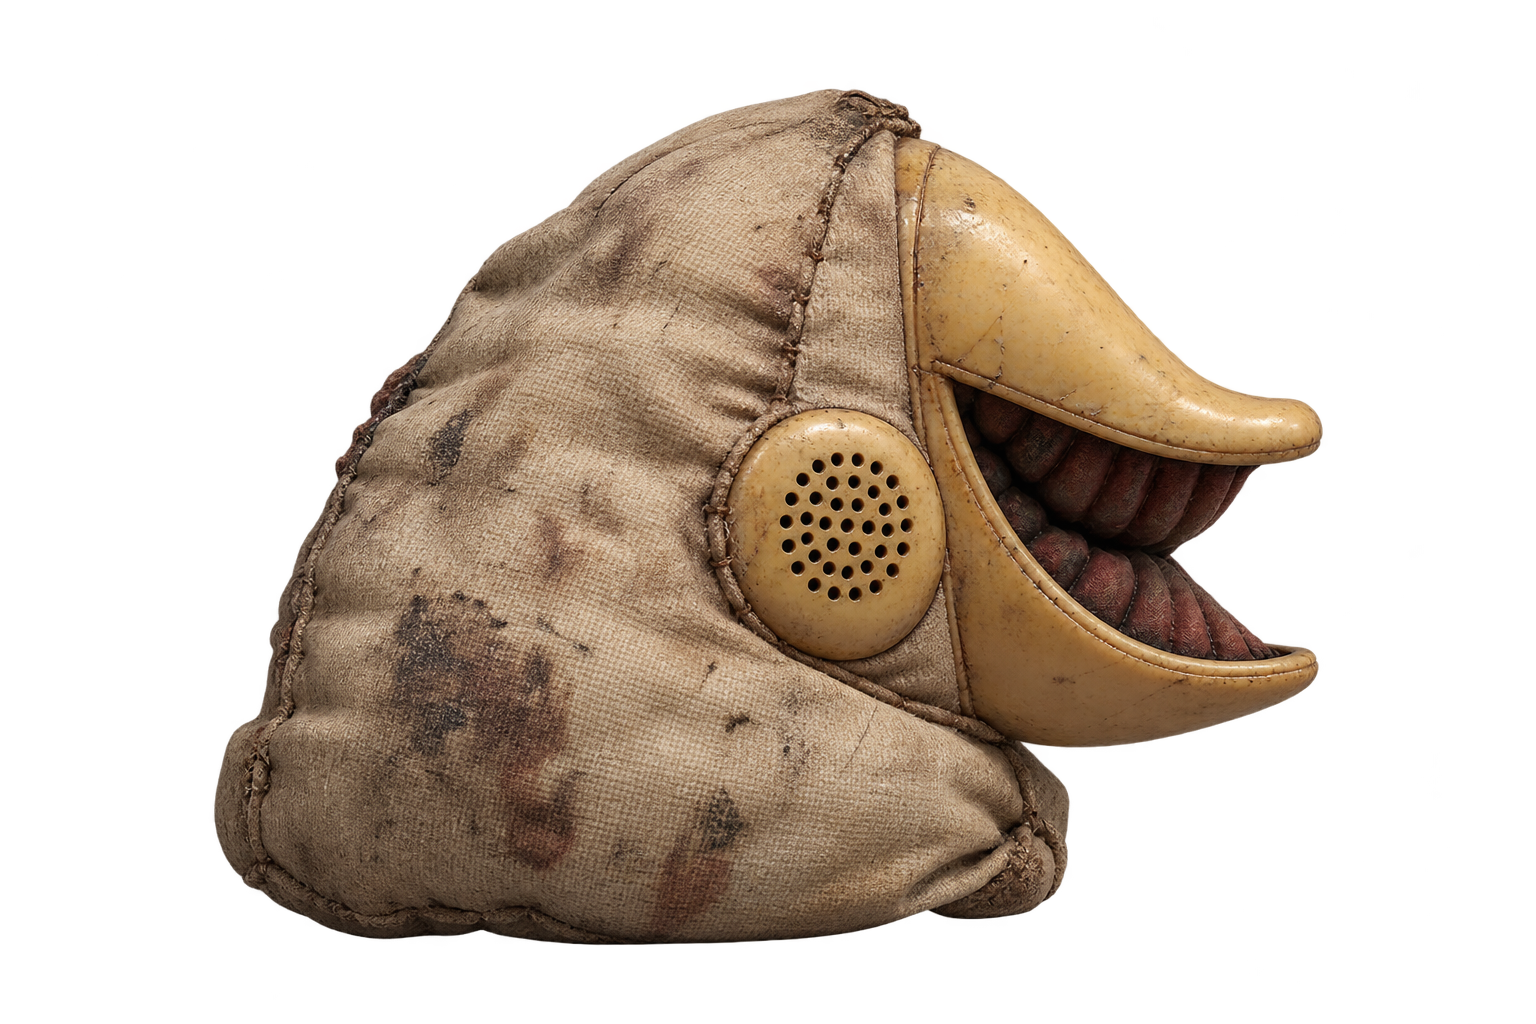
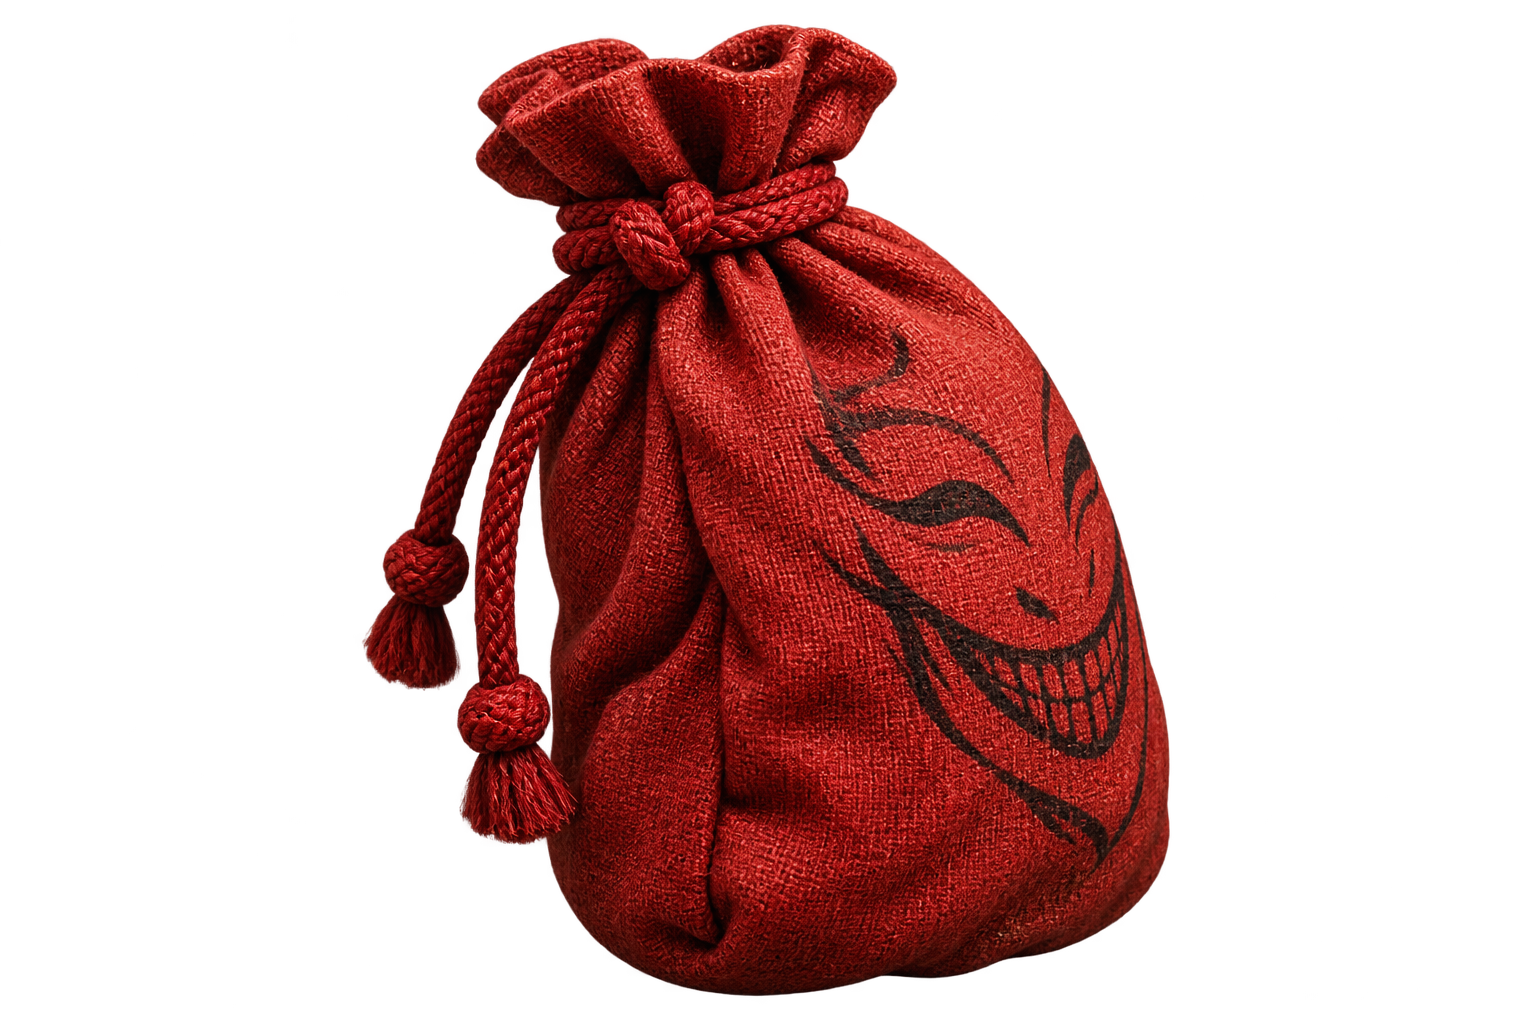
敵素材: 笑い袋を赤い巾着袋＋布面の笑い顔に差し替え、サイズ区分表に第2バッチ分を追加

diff --git a/docs/monsters.md b/docs/monsters.md
@@ -87,7 +87,7 @@
 | M115 | ホラーDVD | 恐怖メディア | 未定 | 未定 | 未定 | 未定 | 仕様のみ（実在作品名・ロゴは使わない） | #12 |
 | M116 | 怪奇本 | 恐怖メディア | 未定 | 未定 | 未定 | 未定 | 仕様のみ | #12 |
 | M117 | 怪人・ひとさらい風の絵本キャラ | 恐怖メディア | 未定 | 未定 | 未定 | 未定 | 仕様のみ | #12 |
-| M118 | 笑い袋 | 恐怖メディア | 未定 | 未定 | 未定 | 未定 | 生成済み: `assets/enemies/laughing-bag.png`（採否待ち。右向き・透過） | #12 |
+| M118 | 笑い袋 | 恐怖メディア | 未定 | 未定 | 未定 | 未定 | 生成済み: `assets/enemies/laughing-bag.png`（採否待ち。赤い巾着袋・布面に笑った顔の絵・右向き三面・透過。旧版（唇の口）は却下（kako-jun 2026-10-15）） | #12 |
 | M119 | 指名手配風ポスター | 恐怖メディア | 未定 | 未定 | 未定 | 未定 | 仕様のみ（架空の図像。実在人物・氏名・事件は使わない） | #12 |
 | M120 | 誘拐を思わせる標識 | 恐怖メディア | 未定 | 未定 | 未定 | 未定 | 仕様のみ（同上） | #12 |
 | M121 | 分厚い百科事典・難解な勉強の本 | 知識の恐怖 | 未定 | 未定 | 未定 | 未定（ページがめくれるたびに難問・重みが増す） | 生成済み: `assets/enemies/encyclopedia.png`（採否待ち。背表紙を左・頁側を右・透過・文字なし） | #12 |
@@ -175,9 +175,13 @@
 | M101 | 1x1（普通） | `assets/enemies/roadroller.png` 640x393、縦横比 1.63 |
 | M102 | 2x1（横2倍） | `assets/enemies/drill.png` 640x271、縦横比 2.36 |
 | M103 | 2x1（横2倍） | `assets/enemies/gun.png` 640x197、縦横比 3.25 |
+| M104 | 1x1（普通） | `assets/enemies/reckless-bicycle.png` 640x418、縦横比 1.53 |
+| M106 | 2x1（横2倍） | `assets/enemies/loud-motorbike.png` 640x336、縦横比 1.90 |
 | M108 | 1x1（普通） | `assets/enemies/open-manhole.png` 640x377、縦横比 1.70 |
 | M109 | 1x1（普通） | `assets/enemies/night-branches.png` 640x468、縦横比 1.37 |
 | M110 | 1x2（縦2倍） | `assets/enemies/wall-stain.png` 323x640、縦横比 0.50 |
+| M118 | 1x1（普通） | `assets/enemies/laughing-bag.png` 532x640、縦横比 0.83 |
+| M121 | 1x1（普通） | `assets/enemies/encyclopedia.png` 465x640、縦横比 0.73 |
 | M122 | 1x2（縦2倍） | `assets/enemies/anatomical-model.png` 296x640、縦横比 0.46 |
 | M123 | 1x1（普通） | `assets/enemies/formalin-jar.png` 434x640、縦横比 0.68 |
 | M124 | 1x2（縦2倍） | `assets/enemies/skeleton-model.png` 234x640、縦横比 0.37 |
@@ -185,12 +189,16 @@
 | M126 | 2x1（横2倍） | `assets/enemies/dental-drill.png` 640x352、縦横比 1.82 |
 | M131 | 1x1（普通） | `assets/enemies/hornet.png` 640x636、縦横比 1.01 |
 | M132 | 1x1（普通） | `assets/enemies/pathogen.png` 640x462、縦横比 1.39 |
+| M133 | 1x1（普通） | `assets/enemies/poison-mushroom.png` 640x466、縦横比 1.37 |
 | M134 | 1x1（普通） | `assets/enemies/nail.png` 640x414、縦横比 1.55 |
 | M135 | 1x1（普通） | `assets/enemies/broken-glass.png` 640x421、縦横比 1.52 |
+| M136 | 1x1（普通） | `assets/enemies/wire-mesh.png` 640x458、縦横比 1.40 |
+| M137 | 1x1（普通） | `assets/enemies/barbed-wire.png` 640x359、縦横比 1.78 |
 | M138 | 1x1（普通） | `assets/enemies/icicle.png` 640x432、縦横比 1.48 |
 | M139 | 1x1（普通） | `assets/enemies/sea-urchin.png` 640x449、縦横比 1.43 |
 | M142 | 1x1（普通） | `assets/enemies/chandelier.png` 640x546、縦横比 1.17 |
 | M143 | 1x1（普通） | `assets/enemies/broken-window.png` 470x640、縦横比 0.73 |
+| M144 | 1x1（普通） | `assets/enemies/torn-shoji.png` 465x640、縦横比 0.73 |
 | M145 | 2x1（横2倍） | `assets/enemies/broken-bottle.png` 640x199、縦横比 3.22 |
 
 M001（段ボールのドラゴン）は「ボスか雑魚かの区分は未定」、M003（トクリュウの本物の竜）は役割の記述が無くボス明記の根拠が無いため載せていない。ボスと決まれば大型としてここに追加する。M127（イカ）は「大型ボス的」とあるが役割は未定のため、同様に載せていない。
